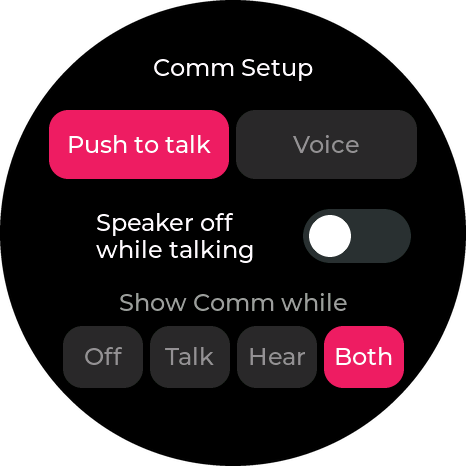
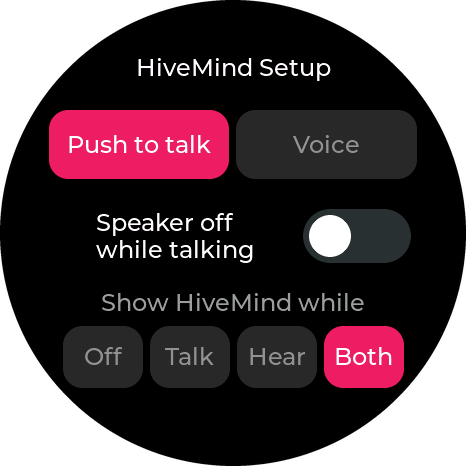
Announce DroneLab from KatCorp, and follow the HiveMind names in the docs
- The README opens with KatCorp's announcement.
- The docs use the display's new HiveMind names; the app's are unchanged.
- The Images screenshot shows KatCorp's cat with the voice ring, and the
  HiveMind screenshots are retaken.

Changed region(s): [[0.2103, 0.6309, 0.7811, 0.691], [0.2704, 0.1202, 0.721, 0.1803]]

diff --git a/tools/screenshots.py b/tools/screenshots.py
@@ -178,7 +178,7 @@ def doc_shots(board, out):
     info = board.api("GET", "/api/info")
     images = dict(info["features"])["Images"]
 
-    take("images_home", "Images", images.index("home"))
+    take("images_katcorp", "Images", images.index("RCatLogo"))
     take("images_hal9000", "Images", images.index("hal9000"))
 
     # Something for the visualizers to show: a track on the speaker
@@ -195,8 +195,8 @@ def doc_shots(board, out):
 
     take("voice_effect", "Voice", 0)
     take("voice_effect_volume", "Voice", 1)
-    take("comm_status", "Comm", 0)
-    take("comm_setup", "Comm", 1)
+    take("comm_status", "HiveMind", 0)
+    take("comm_setup", "HiveMind", 1)
     # 24 px letters, which keep the words whole; a line at a time, as the
     # console takes a line at a time
     board.api("POST", "/api/termsize?s=3")

diff --git a/docs/features/comms.md b/docs/features/comms.md
@@ -2,7 +2,7 @@
 
 *The ESP32-S3-Touch-AMOLED-1.75, with the DroneLab app on an Android phone.  New: cloud mode works end to end and is still being tried out; direct mode is in development.*
 
-HiveMind links every drone in the hive into one mind: they talk to each other, like a radio.  On the unit and in the app it's called *Comm*.  Each unit sends its wearer's voice, through the [voice effect](voice-effects.md), and the others' voices come back to the wearer's headphones, through their phone.  The display shows who's talking, with their avatar.  The unit only sends while the wearer talks: with *Push to talk*, while the talk button is held, and in *Voice* mode, whenever it hears them speak.
+HiveMind links every drone in the hive into one mind: they talk to each other, like a radio.  On the unit it's the *HiveMind* feature; in the app it's still the *Comm* tab.  Each unit sends its wearer's voice, through the [voice effect](voice-effects.md), and the others' voices come back to the wearer's headphones, through their phone.  The display shows who's talking, with their avatar.  The unit only sends while the wearer talks: with *Push to talk*, while the talk button is held, and in *Voice* mode, whenever it hears them speak.
 
 It has two modes, which can be on together:
 
@@ -34,12 +34,12 @@ You hear both modes at once: the app plays the server's voices and the direct on
 
 1. [Install the app](../installing-the-app.md) and pair it with your unit: on the unit, switch on the *Phone App* page in [Settings](settings.md), after Brightness.
 2. **For cloud mode**, the hive needs a Mumble server (see [Setting up a Mumble server](#setting-up-a-mumble-server)).  Enter it in the app's *Comm Settings*, behind the gear on the Comm tab: its address, your name and the server password, then connect.
-3. **For direct mode**, switch on *Direct*: on the unit's *Direct* page, in the Comm feature, or on the *Direct* line of the app's Comm tab.  Then [pick a group](#groups).
+3. **For direct mode**, switch on *Direct*: on the unit's *Direct* page, in the HiveMind feature, or on the *Direct* line of the app's Comm tab.  Then [pick a group](#groups).
 4. Talk: hold the talk button, or set *Voice* mode and just speak.
 
 The *Phone App* stays on, or off, from one startup to the next.  The voice effect has to run the whole time it's on, so it uses more battery: the [speaker model](../build/speaker-housing.md)'s 2000 mAh battery runs about 9.5 hours with comms on, against about 13.5 without.  Direct mode costs a little more again, as the radio has to listen the whole time.
 
-Everything else is in the *Comm* feature on the unit, swiping up and down, after Sound.
+Everything else is in the *HiveMind* feature on the unit, swiping up and down, after Sound.
 
 ## Setting up a Mumble server
 
@@ -53,15 +53,15 @@ Whichever you use, everyone needs its **address**, its **port** (64738, unless i
 
 ## On the display
 
-| ![The status screen](../images/screens/comm_status.png) | ![Comm Setup](../images/screens/comm_setup.png) |
+| ![The status screen](../images/screens/comm_status.png) | ![HiveMind Setup](../images/screens/comm_setup.png) |
 |:-:|:-:|
-| The status screen | Comm Setup |
+| The status screen | HiveMind Setup |
 
 ### The status screen
 
 The first page shows how comms are doing at a glance, as a green screen like the [Terminal](terminal.md)'s:
 
-- At the top, *Comms* and an antenna: red and struck through with no uplink (the phone running the app), yellow without its waves while the app's connected but the server isn't, and green with its waves once everything's connected.
+- At the top, *HiveMind* and an antenna: red and struck through with no uplink (the phone running the app), yellow without its waves while the app's connected but the server isn't, and green with its waves once everything's connected.
 - In the middle, an avatar in a frame, with a tag on its bottom edge:
   - **RX**: whoever's talking, their avatar in full color and the frame lit up, with their name underneath, and "+1" and so on for others talking at once.
   - **TX**: your own avatar, in full color, the frame white-hot, and a ring round the edge of the screen.  A cloud (cloud mode) or a handheld radio (direct mode) shows where it's going, with the channel's or group's name.
@@ -71,13 +71,13 @@ Holding the avatar talks, for trying it out with the display in hand.  It waits 
 
 The status screen can be picked to show when the display turns on, in [Settings](settings.md#startup).
 
-### Comm Setup
+### HiveMind Setup
 
 - *Push to talk* or *Voice*: in *Push to talk*, the unit sends while the talk button (or the app's, or the avatar) is held, and in *Voice*, whenever it hears you speak.
 - *Speaker off while talking*: the speaker goes quiet while the unit's sending, voice effect and sound files alike, so those nearby don't hear what goes to the hive.
-- *Show Comm while*: *Talk*, *Hear* or *Both* comes to the status screen by itself while the unit's sending, while someone else is talking, or both, and goes back to the page you were on two seconds after it stops.  If you swipe somewhere else in the meantime, it stays where you went.  It waits while you're touching the screen.
+- *Show HiveMind while*: *Talk*, *Hear* or *Both* comes to the status screen by itself while the unit's sending, while someone else is talking, or both, and goes back to the page you were on two seconds after it stops.  If you swipe somewhere else in the meantime, it stays where you went.  It waits while you're touching the screen.
 
-### Comm Voice
+### HiveMind Voice
 
 The voice effect for what the hive hears: *Same as speaker*, or any of the [voice effects](voice-effects.md), so you can sound natural on comms and like a robot out loud, or the other way round.  With two different effects the voice runs through both, which takes more of the unit's processor: the heaviest two together take about 70% of one of its cores.
 
@@ -89,7 +89,7 @@ Talking goes one way at a time: cloud (*Server*) or *Direct*.  *Talk on*, above 
 
 A Bluetooth camera shutter remote can be the talk button: hold it to talk, in either mode.  It has to be a Bluetooth LE one, which shows up as a keyboard, and one that reports the button being held, not just pressed.  The cheap *AB Shutter3* remotes work.  The ATUMTEK one pairs, but only sends a press, so it can't hold the channel open.
 
-1. On the *Talk Button* page, after *Comm Setup*, tap *Pair a button*.
+1. On the *Talk Button* page, after *HiveMind Setup*, tap *Pair a button*.
 2. Put the remote in pairing mode: switch it on, or hold its button until it blinks.  The unit pairs with the nearest one it finds, and shows its name.
 
 The unit remembers it.  The remote goes to sleep after a minute or so; pressing it wakes it, the unit connects again, and that press counts, a moment late.  It's only used while the Phone App is on.  *Forget it* unpairs it.  A remote usually remembers only the last thing it paired with, so pairing it with the unit unpairs it from a computer or phone it was used with.
@@ -124,7 +124,7 @@ The app trusts the server's certificate the first time it connects, and if the c
 
 Direct mode carries the hive's voices unit to unit over the radio, with no internet, server or phone signal in between: for halls, basements and the middle of nowhere.  Each unit broadcasts its wearer's voice, through the voice effect, to the units in range, and passes what it hears from the others to its phone, which plays it to your headphones.  So a phone is still needed to listen, but it doesn't need any signal.
 
-The unit's *Direct* page, in the Comm feature, switches it on, and lists the units it hears, strongest first, with bars for how well.  It talks the same way as in cloud mode: the talk button, holding the avatar on the status screen, voice mode, or the app's Hold to talk.
+The unit's *Direct* page, in the HiveMind feature, switches it on, and lists the units it hears, strongest first, with bars for how well.  It talks the same way as in cloud mode: the talk button, holding the avatar on the status screen, voice mode, or the app's Hold to talk.
 
 ### Groups
 
@@ -154,7 +154,7 @@ The radio has to listen the whole time direct mode is on, which costs about 80 m
 
 The DroneLab app, in [`app/`](../../app/), is the phone's side, for Android for now: see [Installing the App](../installing-the-app.md) to get it.
 
-The **Comm tab** shows the unit, the server and direct mode, one line each, with the talk button, the channel's people and the units nearby.  What's set once is in *Comm Settings*, behind the gear: your avatar, the server, the unit's comms settings (the mode, the [Comm Voice](#comm-voice), *Speaker off while talking*, when to show the Comm screen), and direct mode and its group.  It has its own *Hold to talk*, and keeps going with the screen off, with a notification while it's on.
+The **Comm tab** shows the unit, the server and direct mode, one line each, with the talk button, the channel's people and the units nearby.  What's set once is in *Comm Settings*, behind the gear: your avatar, the server, the unit's comms settings (the mode, the [HiveMind Voice](#hivemind-voice), *Speaker off while talking*, when to show the HiveMind screen), and direct mode and its group.  It has its own *Hold to talk*, and keeps going with the screen off, with a notification while it's on.
 
 The first time the app connects, the phone asks to pair, and the unit shows a 6-digit code over whatever's on its screen: type it into the phone.  The unit only talks to a phone that's paired like that, so nobody else nearby can listen in or take over, and the phone and unit remember each other after that.  A new phone can only pair while pairing's open: for two minutes after the *Phone App* is switched on, or after *Pair a phone* on the *Paired Phones* page in Settings, and until a phone's paired.  The rest of the time, a phone that isn't paired is turned away before any code's shown, as the screen faces outward while the mask's worn, where anyone could read it.  With several units about, pick yours by its name, shown on the *Phone App* page (`DroneLab-` and four letters): if you pick someone else's, the code shows on theirs, not yours.
 

diff --git a/README.md b/README.md
@@ -8,9 +8,9 @@
 
 ## What is DroneLab?
 
-Your drone's voice port has been sitting there doing nothing but letting sound out.  KatCorp thinks it can do more.
+KatCorp Drone Systems Division is pleased to announce DroneLab: a display and voice upgrade for drones in compatible gas masks.¹
 
-DroneLab is a round, glowing touch screen that screws into the voice port on the front of a compatible gas mask: its housings are made to fit the voice port of the MSA Millennium.¹  It replaces the plain port cover with a 1.75" AMOLED display that shows images and animations, lights up as the wearer speaks, and, in the speaker model, turns their voice into something else entirely: a synthetic female voice, a monotone robot, a Dalek, a Borg collective.  It links up with other drones over the radio, takes commands from a phone, and can run a wearer's Lovense devices.
+The unit replaces the mask's voice port cover with a glowing 1.75" round touch screen.  It shows your designation, images and animations, lights up as you speak, and in the speaker model gives you a new voice: synthetic, robotic, or a collective of many.  Units link into a HiveMind with the rest of your hive, and take orders from a phone or from authorized handlers.
 
 **Who it's for:** latex and rubber drones who want their mask to look and sound like a piece of corporate hardware, and anyone else with a compatible mask (cosplayers, costume and prop makers) who wants a voice port that does something.
 
@@ -53,7 +53,7 @@ DroneLab is a round, glowing touch screen that screws into the voice port on the
 </td>
 </tr>
 <tr>
-<td width="190" align="center"><img src="docs/images/screens/images_home.png" width="170" alt="An image with the voice ring around it"></td>
+<td width="190" align="center"><img src="docs/images/screens/images_katcorp.png" width="170" alt="The KatCorp logo with the voice ring around it"></td>
 <td>
 <h3>Images and the voice ring</h3>
 <p>Any picture or animated GIF, built in or from a micro SD card, with a glowing ring around the edge that pulses as the wearer speaks.</p>

diff --git a/docs/features/voice-lab.md b/docs/features/voice-lab.md
@@ -65,7 +65,7 @@ The Voice Lab is off whenever the board starts, and WiFi is off while it's off. 
 
 ## Recording in the app
 
-The DroneLab app's *Record* tab records the board's voice, after the effect, straight to the phone, over the same Bluetooth link as the [comms](comms.md), with no computer or WiFi.  Pick the *Speaker voice* (the effect the board plays) or the *Comm voice* (the [Comm Voice](comms.md#comm-voice), if it's different), and, if you like, a *Sync beep*: the board beeps as it starts, and the same beep's in the recording, for lining it up with video.  The microphone's left out of the recording while it beeps, and a moment after, so the beep it picks up from the speaker doesn't follow as a second one.
+The DroneLab app's *Record* tab records the board's voice, after the effect, straight to the phone, over the same Bluetooth link as the [comms](comms.md), with no computer or WiFi.  Pick the *Speaker voice* (the effect the board plays) or the *Comm voice* (the [HiveMind Voice](comms.md#hivemind-voice), if it's different), and, if you like, a *Sync beep*: the board beeps as it starts, and the same beep's in the recording, for lining it up with video.  The microphone's left out of the recording while it beeps, and a moment after, so the beep it picks up from the speaker doesn't follow as a second one.
 
 Each recording is a 48 kHz mono WAV, the voice sent at 48 kb/s (the effect itself runs at 16 kHz, so that's as much as there is to hear).  The list under the button plays, shares (to Google Drive, email and the rest, from Android's share sheet) and deletes them.  Comms stop while it records, in both modes, and start again after; the board shows REC.  The voice is evened out by comms's automatic gain, as on the channel.
 

diff --git a/docs/features/images.md b/docs/features/images.md
@@ -6,7 +6,7 @@ Any image, or the blank page, can be picked to show when the display turns on, i
 
 While the Images feature is on screen, the [Voice Ring](voice-ring.md) can glow around the edge with your voice.
 
-| ![With the voice ring](../images/screens/images_home.png) | ![A built-in image](../images/screens/images_hal9000.png) |
+| ![With the voice ring](../images/screens/images_katcorp.png) | ![A built-in image](../images/screens/images_hal9000.png) |
 |:-:|:-:|
 | With the voice ring | A built-in image |
 
@@ -36,7 +36,7 @@ Images are drawn for a 240x240 screen.  On a bigger screen they're scaled up by 
 
 Animated GIFs that need resizing are re-encoded, without transparent pixels and with a black background, so a resized GIF can come out bigger than the original file.  GIFs that are already the right size are used as they are.
 
-The conversion is done by `tools/img2c.py`.  You don't normally need to run it yourself, but you can (for example `python3 tools/img2c.py imgs/home.bmp --size 466 --out home.c`) to see what it produces.
+The conversion is done by `tools/img2c.py`.  You don't normally need to run it yourself, but you can (for example `python3 tools/img2c.py imgs/hexcorp.bmp --size 466 --out hexcorp.c`) to see what it produces.
 
 ## Animated GIF memory use
 

diff --git a/docs/features/settings.md b/docs/features/settings.md
@@ -44,7 +44,7 @@ A spirit level, for lining the display up on the mask.  See [Level](level.md).
 
 ## Startup
 
-What's shown when the display turns on: any image (see [Images](images.md)), the blank page, the [Visualizer](visualizer.md), the [Terminal](terminal.md) or the [Comm](comms.md) status screen, depending on what the board has.
+What's shown when the display turns on: any image (see [Images](images.md)), the blank page, the [Visualizer](visualizer.md), the [Terminal](terminal.md) or the [HiveMind](comms.md) status screen, depending on what the board has.
 
 ## Battery Log
 
